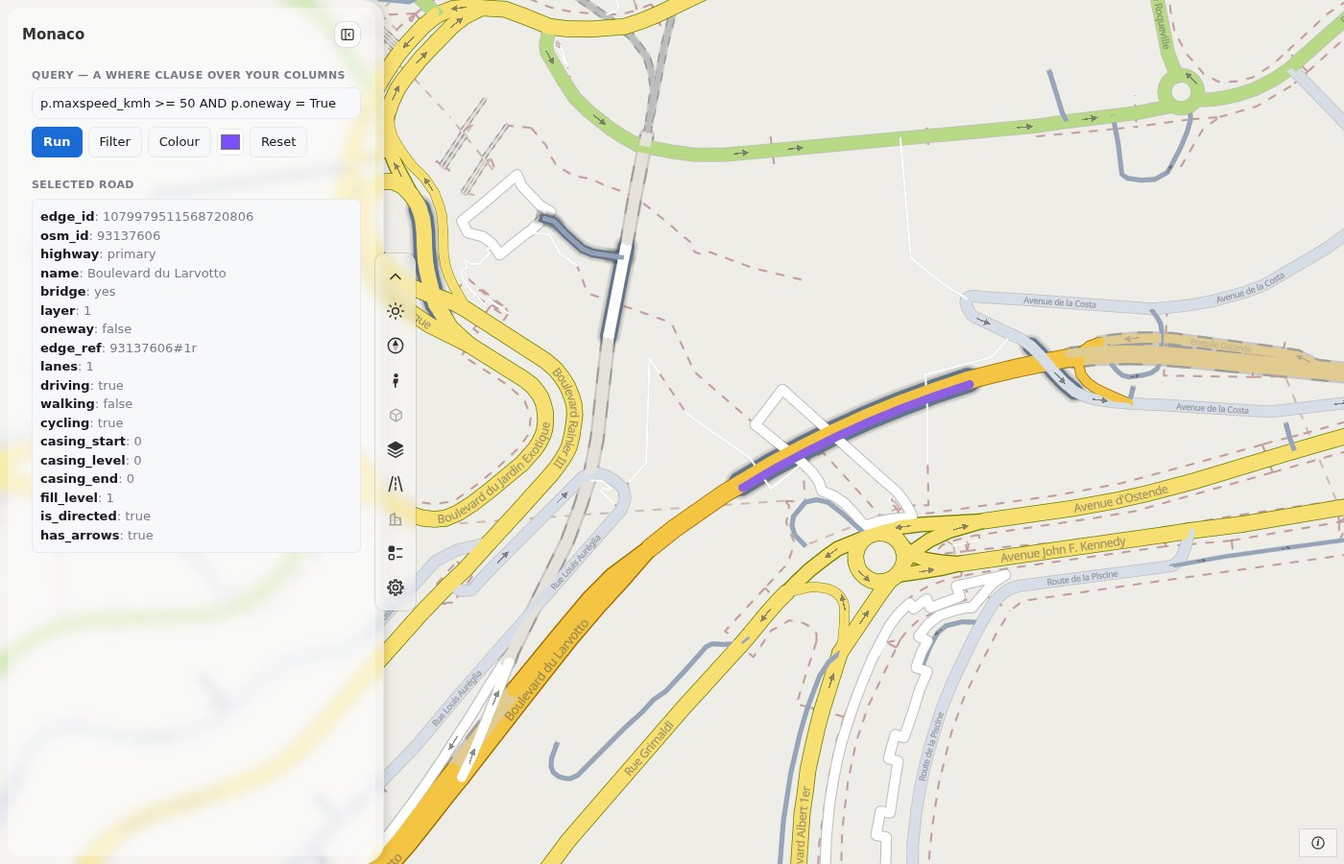
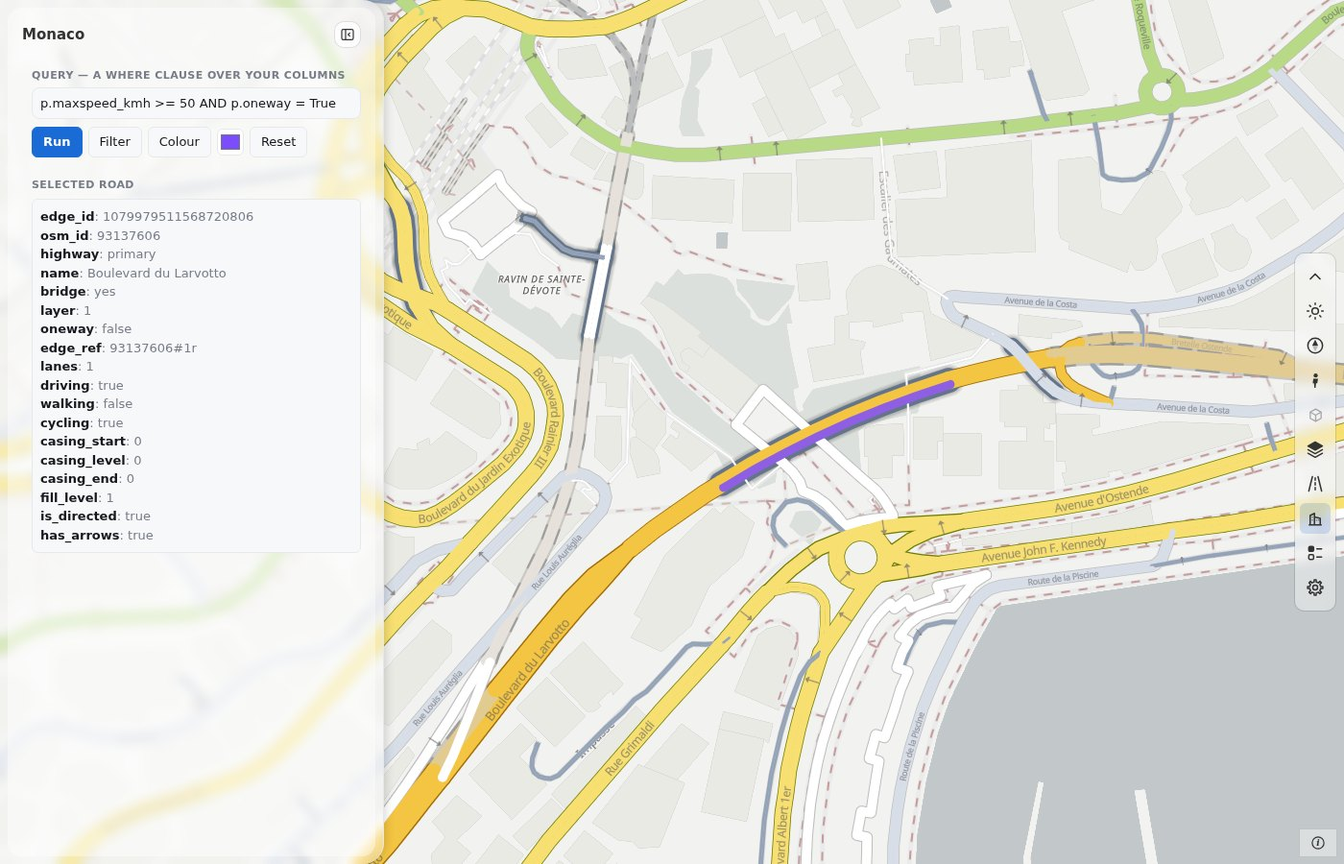
docs: new screenshots from the final build (toolbox at the right, OpenFreeMap Positron, the dark theme with Fiord, the phone with the one-row bar) at the top of the home page and the README and in the gallery; the dark theme, the seven base maps and the toolbox position in the guides and in What is 

diff --git a/docs/rust/architecture.md b/docs/rust/architecture.md
@@ -71,17 +71,17 @@ Each arrow points from a crate to the crate that uses it:
 flowchart TB
     roadstyle_assets["roadstyle-assets<br/>62 lines"]
     roadstyle_model["roadstyle-model<br/>2,181 lines"]
-    roadstyle_look["roadstyle-look<br/>3,225 lines"]
+    roadstyle_look["roadstyle-look<br/>3,276 lines"]
     roadstyle_io["roadstyle-io<br/>1,667 lines"]
     roadstyle_levels["roadstyle-levels<br/>2,851 lines"]
-    roadstyle_engine["roadstyle-engine<br/>7,771 lines"]
+    roadstyle_engine["roadstyle-engine<br/>8,039 lines"]
     roadstyle_tiles["roadstyle-tiles<br/>2,603 lines"]
-    roadstyle["roadstyle<br/>3,506 lines"]
+    roadstyle["roadstyle<br/>3,538 lines"]
     roadstyle_rs["roadstyle-rs<br/>232 lines"]
     roadstyle_wasm["roadstyle-wasm<br/>709 lines"]
     roadstyle_py["roadstyle-py<br/>683 lines"]
     roadstyle_cli["roadstyle-cli<br/>439 lines"]
-    roadstyle_mcp["roadstyle-mcp<br/>289 lines"]
+    roadstyle_mcp["roadstyle-mcp<br/>278 lines"]
     roadstyle_serve["roadstyle-serve<br/>291 lines"]
     roadstyle_snapshot["roadstyle-snapshot<br/>180 lines"]
     roadstyle_levels --> roadstyle_model
@@ -121,21 +121,21 @@ step) takes this crate alone.
 |---|---|---|---|
 | [`roadstyle-assets`](#roadstyle-assets) | roadstyle's files: the look's YAML and palettes, the base map's files, the dashboard's JS and CSS, the page templates and MapLibre, by name | 62 | (none) |
 | [`roadstyle-model`](#roadstyle-model) | roadstyle's road model: the roads as features with typed properties, and the geometry helpers | 2,181 | `roadstyle-levels`, arrow-array, arrow-schema, arrow-select, rstar, serde, serde_json |
-| [`roadstyle-look`](#roadstyle-look) | roadstyle's look: the typed, versioned config (palettes, profiles, settings, map options) that the engine draws a map with | 3,225 | `roadstyle-assets`, `roadstyle-model`, base64, crc32fast, flate2, indexmap, schemars, serde, serde_json, strsim, yaml-rust2 |
+| [`roadstyle-look`](#roadstyle-look) | roadstyle's look: the typed, versioned config (palettes, profiles, settings, map options) that the engine draws a map with | 3,276 | `roadstyle-assets`, `roadstyle-model`, base64, crc32fast, flate2, indexmap, schemars, serde, serde_json, strsim, yaml-rust2 |
 | [`roadstyle-io`](#roadstyle-io) | roadstyle's readers: the roads and other tables from GeoParquet, GeoJSON, Shapefile and (feature gpkg) GeoPackage | 1,667 | `roadstyle-levels`, `roadstyle-model`, arrow-array, arrow-schema, arrow-select, bytes, crs-definitions, i_overlay, parquet, proj4rs, proj4wkt, rstar, rusqlite, serde_json, shapefile |
 | [`roadstyle-levels`](#roadstyle-levels) | roadstyle's drawing levels: the tags rule and the solver (a leaf crate: the road flags are its own module) | 2,851 | rstar, sha2 |
-| [`roadstyle-engine`](#roadstyle-engine) | roadstyle's rendering engine: the style of a map, the data-driven paint, the legend data, the base-map layers | 7,771 | `roadstyle-levels`, `roadstyle-look`, `roadstyle-model`, foldhash, indexmap, rstar, serde_json |
+| [`roadstyle-engine`](#roadstyle-engine) | roadstyle's rendering engine: the style of a map, the data-driven paint, the legend data, the base-map layers | 8,039 | `roadstyle-levels`, `roadstyle-look`, `roadstyle-model`, base64, foldhash, indexmap, rstar, serde_json |
 | [`roadstyle-tiles`](#roadstyle-tiles) | roadstyle's vector tiles on request (the rules of tiles.py) | 2,603 | `roadstyle-model`, flate2, foldhash, indexmap, mlt-core, rstar, serde_json |
-| [`roadstyle`](#roadstyle) | roadstyle as a Rust library: the facade over the model, the readers, the levels, the engine and the tiles | 3,506 | `roadstyle-assets`, `roadstyle-engine`, `roadstyle-io`, `roadstyle-levels`, `roadstyle-look`, `roadstyle-model`, `roadstyle-tiles`, base64, flate2, serde, serde_json |
+| [`roadstyle`](#roadstyle) | roadstyle as a Rust library: the facade over the model, the readers, the levels, the engine and the tiles | 3,538 | `roadstyle-assets`, `roadstyle-engine`, `roadstyle-io`, `roadstyle-levels`, `roadstyle-look`, `roadstyle-model`, `roadstyle-tiles`, base64, flate2, serde, serde_json |
 | [`roadstyle-rs`](#roadstyle-rs) | The old name of the facade crate roadstyle, kept for one version | 232 | `roadstyle`, serde_json |
 | [`roadstyle-wasm`](#roadstyle-wasm) | The browser's front-end of roadstyle-rs: inlineStyle, Tiler, memoryBytes | 709 | `roadstyle`, serde_json, wasm-bindgen |
 | [`roadstyle-py`](#roadstyle-py) | The Python binding of roadstyle's Rust engine: the module roadstyle._rust (PyO3, abi3) | 683 | `roadstyle`, `roadstyle-serve`, arrow-array, pyo3, serde_json |
 | [`roadstyle-cli`](#roadstyle-cli) | The roadstyle program: one command for each job (serve: the level editor's files; snapshot: a PNG of a saved page) | 439 | `roadstyle`, `roadstyle-serve`, `roadstyle-snapshot`, serde_json |
-| [`roadstyle-mcp`](#roadstyle-mcp) | MCP server for roadstyle: AI agents draw styled, interactive road maps of road files | 289 | `roadstyle`, `roadstyle-snapshot`, base64, rmcp, schemars, serde, serde_json, tokio |
+| [`roadstyle-mcp`](#roadstyle-mcp) | MCP server for roadstyle: AI agents draw styled, interactive road maps of road files | 278 | `roadstyle`, `roadstyle-snapshot`, base64, rmcp, schemars, serde, serde_json, tokio |
 | [`roadstyle-serve`](#roadstyle-serve) | roadstyle serve: the level editor's page files and an area folder on 127.0.0.1 (the program and the Python binding call it) | 291 | `roadstyle-assets`, httparse |
 | [`roadstyle-snapshot`](#roadstyle-snapshot) | PNG pictures of saved roadstyle pages: Chromium over CDP draws the page, as roadstyle's Python snapshot does | 180 | anyhow, headless_chrome, serde_json |
 
-All crates: 26,689 lines of Rust in `rust/*/src/`.
+All crates: 27,029 lines of Rust in `rust/*/src/`.
 <!-- /gen:crates -->
 
 The crates read roadstyle's data (`src/roadstyle/data/`: the palettes, the profiles, the sprite) and the page files
@@ -187,11 +187,11 @@ Library, in `rust/roadstyle-model/`. Public API: `error`, `feature_table`, `flag
 
 #### `roadstyle-look` { #roadstyle-look }
 
-Library, in `rust/roadstyle-look/`. Public API: `basemap`, `color`, `options`, `sections`, `widths`, `VERSION`, `LookData`, `Look`, `RoadLook`, `SlotLook`, `DeckLook`, `Error`, `MapOptions`, `LookFile`, `Sections`, `Ramp`, `make_look`, `theme`, `Options`, `round_to`, `RoadModel`, `png_pixels`.
+Library, in `rust/roadstyle-look/`. Public API: `basemap`, `color`, `options`, `sections`, `widths`, `VERSION`, `LookData`, `Look`, `RoadLook`, `SlotLook`, `DeckLook`, `Error`, `MapOptions`, `LookFile`, `Sections`, `Ramp`, `make_look`, `theme`, `Options`, `round_to`, `RoadModel`, `png_pixels`, `png_rgba`.
 
 | Module | Lines | What it does | Python counterpart |
 |---|---|---|---|
-| `lib` | 323 | roadstyle's look: the one typed, versioned value that the engine draws a map with | `_settings.py` |
+| `lib` | 325 | roadstyle's look: the one typed, versioned value that the engine draws a map with | `_settings.py` |
 | `basemap` | 393 | The base map's half of the look (mapstyle's styles, merged into roadstyle on 2026-10-23): a duckOSM map's travel mode, its theme and its path style give the roads' palette and settings (mapstyle's `mode_settings`) and the base map's part of the look (`features`: the layers of layers.yaml, the 3D heights, the base map's style in the theme's colours and its images) |  |
 | `color` | 129 | The look's colours (review D4): one reader for every colour of the look, and the mixes |  |
 | `error` | 38 | The errors of the look: one kind for each cause, each with the text that the bindings show (the same text as before the type) |  |
@@ -206,7 +206,7 @@ Library, in `rust/roadstyle-look/`. Public API: `basemap`, `color`, `options`, `
 | `png` | 96 | The PNG images of the look: a texture's mask (8-bit grey) read, and a texture in its colour (8-bit RGBA) written |  |
 | `ramp` | 118 | The colour ramps of data colours (render_edges' cmap): branca's LinearColormap ColorRamp makes it |  |
 | `resolve` | 522 | The resolution of the look (look.json): what roadstyle renders a map with, made from render_edges' palette, profile and settings, as The look as the engine reads it: the settings (theme, style, roads: the profile and the palette merged, the palettes of all classes, the settings in the older layout), of config.StyleConfig, of palettes.RoadStyle.from_dict with style._apply, and of the parts geolibre-roadstyle's look_of adds (the class styles, the slots' tables, the arrow image, the popup) |  |
-| `sections` | 563 | The typed look: one struct for each section of the resolved look, in place of the JSON values `theme` and `config` (StyleConfig's flat view, most of whose keys were a copy of a theme section) and of the resolution's tables (`styles`, `slots`, `roads_model`, the arrow image, the road popup, the base map's part) |  |
+| `sections` | 612 | The typed look: one struct for each section of the resolved look, in place of the JSON values `theme` and `config` (StyleConfig's flat view, most of whose keys were a copy of a theme section) and of the resolution's tables (`styles`, `slots`, `roads_model`, the arrow image, the road popup, the base map's part) |  |
 | `widths` | 174 | The road width model: the width of each class by zoom, its draw order and its two-way split |  |
 
 #### `roadstyle-io` { #roadstyle-io }
@@ -243,13 +243,14 @@ Library, in `rust/roadstyle-levels/`. Public API: `area`, `flags`, `flow`, `solv
 
 #### `roadstyle-engine` { #roadstyle-engine }
 
-Library, in `rust/roadstyle-engine/`. Public API: `colors`, `contract`, `decks`, `draw`, `error`, `export_look`, `features`, `layers`, `overlays`, `palettes`, `planner`, `road`, `roads`, `simple`, `slots`, `sources`, `MAX_ROADS`, `Src`, `Parts`, `make_parts`, `restyle`, `restyle_same_fills`, `inline_style`, `level_edges`, `feature_table`, `geom`, `mark`, `props`, `table`, `Cell`, `RoadTable`, `Role`, `Roles`, `Row`, `FeatureTable`, `Error`, `Limit`, `Unsupported`, `Road`, `Roads`, `look`, `Look`.
+Library, in `rust/roadstyle-engine/`. Public API: `colors`, `dark`, `contract`, `decks`, `draw`, `error`, `export_look`, `features`, `layers`, `overlays`, `palettes`, `planner`, `road`, `roads`, `simple`, `slots`, `sources`, `MAX_ROADS`, `Src`, `Parts`, `make_parts`, `restyle`, `restyle_same_fills`, `inline_style`, `level_edges`, `feature_table`, `geom`, `mark`, `props`, `table`, `Cell`, `RoadTable`, `Role`, `Roles`, `Row`, `FeatureTable`, `Error`, `Limit`, `Unsupported`, `Road`, `Roads`, `look`, `Look`.
 
 | Module | Lines | What it does | Python counterpart |
 |---|---|---|---|
-| `lib` | 268 | roadstyle's rendering engine: the style of a map from the roads, the look, the data-driven paint, the legend data and the base-map layers |  |
+| `lib` | 269 | roadstyle's rendering engine: the style of a map from the roads, the look, the data-driven paint, the legend data and the base-map layers |  |
 | `colors` | 428 | Data-driven colour and width: render_edges' color_by, colors, cmap, vmin, vmax, width_by, color_table, color_key, color_options, color_active and legend, read from look["args"] |  |
 | `contract` | 174 | The output side of the interaction contract: what a page's dashboard reads from a style made with `state: "live"` |  |
+| `dark` | 259 | The dark theme of a live style |  |
 | `decks` | 323 | the bridges as ramped deck ribbons for the 3D view (the fill-extrusion source `decks`) |  |
 | `draw` | 317 | The drawing values of each road: what the stages of bake as `__rs_*` properties, as typed fields |  |
 | `error` | 139 | The errors of the engine: one kind for each cause, with the text that the bindings show |  |
@@ -280,7 +281,7 @@ Library, in `rust/roadstyle-engine/`. Public API: `colors`, `contract`, `decks`,
 | `slots::mod` | 149 | The "slots" source: the names and the one-way arrows, from the roads after their stages (roads::mark_roads) |  |
 | `slots::place` | 208 | The slots of one group: where its chains are free of crossing roads, how they divide into slots, and each slot's feature |  |
 | `sources` | 310 | Stage 1: the roads and the look give the style and its sources, typed in memory: the drawing sources (the roads' lines with their drawing values, the pieces, the names and arrows, the 3D decks, the base map, ...) and the road table (every field of each road, by its row) |  |
-| `style` | 218 | The parts of a style from roads that are prepared (the roles, the levels): `make_parts`'s second half |  |
+| `style` | 226 | The parts of a style from roads that are prepared (the roles, the levels): `make_parts`'s second half |  |
 
 #### `roadstyle-tiles` { #roadstyle-tiles }
 
@@ -316,7 +317,7 @@ Library, in `rust/roadstyle/`. Public API: `error`, `dashboard`, `level_area`, `
 | `level_editor` | 680 | The level editor in a page: an area folder's roads (roads.parquet, one row for each road with its edges both ways) and pairs, the solver of roadstyle-levels' `area`, and what the page draws and shows |  |
 | `options` | 52 | The keywords of a call (render_edges' flat keywords) that no part of roadstyle reads: not a map option (roadstyle_look::options), not a page key (page_options) and not a key of the style writer or of stage 2 |  |
 | `page` | 267 | The page writer: the HTML page of a live style (state "live") and the options of its dashboard |  |
-| `page_options` | 693 | Stage 3 of a page in one call (audit R3): `page_from` makes the page of a look's roads, as render_edges(backend="web") with the Rust engine (`_engine.render_page`) | `_engine.py`, `basemaps.py` |
+| `page_options` | 725 | Stage 3 of a page in one call (audit R3): `page_from` makes the page of a look's roads, as render_edges(backend="web") with the Rust engine (`_engine.render_page`) | `_engine.py`, `basemaps.py` |
 | `relevel` | 222 | The level editor's redraw: a tiled map whose roads get new levels, heads and caps |  |
 
 #### `roadstyle-rs` { #roadstyle-rs }
@@ -361,7 +362,7 @@ Library and program, in `rust/roadstyle-mcp/`. Public API: (none).
 
 | Module | Lines | What it does | Python counterpart |
 |---|---|---|---|
-| `main` | 289 | `roadstyle-mcp`: roadstyle as tools for AI agents, an MCP server over stdio on the rmcp SDK |  |
+| `main` | 278 | `roadstyle-mcp`: roadstyle as tools for AI agents, an MCP server over stdio on the rmcp SDK |  |
 
 #### `roadstyle-serve` { #roadstyle-serve }
 
@@ -545,13 +546,13 @@ saved page still works offline.*
 |---|---|---|---|
 | `api.js` | 170 | the runtime API of the interaction contract: one object for a host page, over the window.rs* functions of the controls |  |
 | `arrows.js` | 164 | oneway direction-arrow icon (openstreetmap-carto) |  |
-| `basemap.js` | 153 | base-layer switching: window.rsSetBasemap(key|index) is the API (swaps the raster source's tiles; the road layers stay put); the dropdown is just UI over it and stays in sync | `RS_BASEMAPS`, `rsBuildings`, `rsSetBasemap` |
-| `basemapbox.js` | 93 | The base-map box: the heading "Base map", one radio row with a swatch for each map, a divider, and "On top": Hillshade, Labels and 3D buildings | `rsLabelsOn` |
+| `basemap.js` | 144 | base-layer switching: window.rsSetBasemap(key|index) is the API (swaps the raster source's tiles; the road layers stay put); the dropdown is just UI over it and stays in sync | `RS_BASEMAPS`, `rsBuildings`, `rsSetBasemap` |
+| `basemapbox.js` | 95 | The base-map box: the heading "Base map", one radio row with a swatch for each map, a divider, and "On top": Hillshade, Labels and 3D buildings | `rsLabelsOn` |
 | `boundary.js` | 62 | The area boundary: what the dashboard does with the map option `boundary` |  |
 | `breaks.js` | 38 | NATURAL BREAKS for live data (Fisher-Jenks): the cut points that split numbers into k sets so that the numbers inside a set are as close as possible (the least sum of squares) |  |
 | `color.js` | 114 | "colour by" recolouring: each option's fill is baked per edge (__rs_fill / __rs_fill__1 …), and the road layers' expressions (made in Python, render_web._fill_expr) pick the active option from the state rs_co | `RS_COLOR_OPTIONS`, `rsColor`, `rsColorBase`, `rsSetColorField`, `rsSetRoadFill` |
 | `colorbox.js` | 79 | The tool `legend`: "Colour by" and the legend in one box of the bar |  |
-| `core.js` | 217 | roadstyle's map dashboard: the state that every control reads, the road data, and the id-set queries | `rsFocus`, `rsGetProps`, `rsHighlight`, `rsQuery` |
+| `core.js` | 221 | roadstyle's map dashboard: the state that every control reads, the road data, and the id-set queries | `rsFocus`, `rsGetProps`, `rsHighlight`, `rsQuery` |
 | `features.js` | 77 | The base map's layers: the 3D buildings and each layer's clicks, tooltip and popup | `rsGetBuildings3D`, `rsGetInteraction`, `rsSetBuildings3D`, `rsSetInteraction` |
 | `filter.js` | 149 | road-class filtering: window.rsSetClasses([...]) shows exactly those classes and hides the rest across every road layer; the collapsible checkbox panel is just UI over it | `RS_ACCESS`, `RS_CLASSES`, `RS_CLASS_COL`, `RS_CLASS_COLORS`, `RS_KINDS`, `RS_MODES`, `rsFilter`, `rsGetAccess`, `rsGetKinds`, `rsGetModes`, `rsSetAccess`, `rsSetBridges`, `rsSetClasses`, `rsSetKinds`, `rsSetModes`, `rsSetTunnels` |
 | `find.js` | 55 | FIND: substring over the curated popup fields (or every public prop) — matched against each field's VALUE, or its column NAME when the field is set, so "bridge" finds bridge=yes roads (no value literally contains "bridge"), likewise tunnel/oneway | `rsFind` |
@@ -574,13 +575,13 @@ saved page still works offline.*
 | `sections.js` | 67 | The panel's sections: the page adds a block to the panel, hides one of the panel's own, or moves one, with `rs.sections` or with the typed option `dashboard.panel.sections` / `hide`, and no longer edits the template's HTML as text |  |
 | `select.js` | 178 | hover + click-to-select + info popup (feature-state, tolerance box, throttled to one query/frame) | `rsDeselect`, `rsSelect` |
 | `selectbox.js` | 73 | A select list in the look of the boxes |  |
-| `settings.js` | 88 | The tool `settings`: the person's own choices, kept in this browser only (localStorage, never in the page file): where the bar and the panel are, how transparent the layers are, and the keys of Google and CARTO | `rsOpenSettings` |
+| `settings.js` | 86 | The tool `settings`: the person's own choices, kept in this browser only (localStorage, never in the page file): where the bar and the panel are, how transparent the layers are, and the key of Google | `rsOpenSettings` |
 | `streetview.js` | 118 | Street View window (street_view="window"): hidden until the map button (or rsSetStreetView(true)) opens it; then a draggable, resizable window over the map that follows every road selection | `rsSetStreetView` |
 | `svg.js` | 14 | The SVG helper of a page's charts: `rs.svg(parent, tag, attrs, text?)` makes one SVG element, sets its attributes and appends it |  |
 | `svspot.js` | 189 | GOOGLE STREET VIEW of the clicked edge (the window, the side-by-side page, or a plain link), looking the way the edge runs | `rsGetStreetViewSpot`, `rsSetStreetViewMarker`, `rsSetStreetViewMarkerAt`, `rsStreetViewStep` |
 | `tabs.js` | 32 | Tabs and the two-way switch of a page |  |
 | `template.js` | 53 | The dashboard template's phone form: the class `rs-phone` on <html> at the phone width or less (the first paint sets it; this keeps it current), and the bottom sheet of a sidebar (three heights: closed, 40 %, full) |  |
-| `theme.js` | 36 | The page's theme: <html data-rs-theme="light|dark">, which the popup, the tooltip and (later) the bar read (popup.css, dashboard.css) | `rsSetTheme` |
+| `theme.js` | 45 | The page's theme: <html data-rs-theme="light|dark">, which the popup, the tooltip and (later) the bar read (popup.css, dashboard.css) | `rsSetTheme` |
 | `tip.js` | 49 | The explanation of a button: the browser draws a `title` itself, in the system's style, so the page takes the `title` of a button of the bar, the boxes, the panels and the windows when the pointer comes (or the key focus), keeps its text in `data-rs-tip` and shows it in a box of the page's look |  |
 | `toolbar.js` | 177 | The bar: the tools of the registry on one bar at an edge of the window, in the look of the theme |  |
 | `tools.js` | 143 | The tool registry |  |
@@ -687,7 +688,7 @@ an item shows "yes" when the code has it:
 | The core has no I/O: the engine does not depend on a reader | `roadstyle-engine` depends on: `roadstyle-levels`, `roadstyle-look`, `roadstyle-model` | yes |
 | A crate `roadstyle-look` for the typed, versioned look | `roadstyle-look` exists | yes |
 | One error enum for each crate | `Result<_, String>`: 10 places; error enums: Error, SnapshotError | no |
-| A typed render model in place of JSON trees | `Value` (serde_json) in `roadstyle-engine`: 696 times | no |
+| A typed render model in place of JSON trees | `Value` (serde_json) in `roadstyle-engine`: 721 times | no |
 | Typed fields in place of the `__rs_*` properties | 59 distinct `__rs_*` names in `rust/` | no |
 | Stage 2 (the tiles) has its own public call in Python and in the browser | `roadstyle-py`: none; `roadstyle-wasm`: none | no |
 | One road table for the fields, in GeoJSON and in tiles alike | a call for the road table: `roadstyle-py`: none; `roadstyle-wasm`: `roadTable`. Today GeoJSON has the fields in its source `roads`, the tiled page in the side table | no |

diff --git a/README.md b/README.md
@@ -26,6 +26,11 @@
   <a href="https://khoshkhah.github.io/roadstyle/">Documentation</a>
 </p>
 
+<p align="center">
+  <img src="https://raw.githubusercontent.com/Khoshkhah/roadstyle/main/docs/img/gallery/dashboard.jpg" alt="The standard dashboard on a desktop: Monaco on the OpenFreeMap Positron base map, a road selected in the panel at the left, and the toolbox at the right edge" width="68%">
+  <img src="https://raw.githubusercontent.com/Khoshkhah/roadstyle/main/docs/img/gallery/dashboard_phone.jpg" alt="The dashboard on a phone: the one-row bar at the top, the map, and the panel as a bottom sheet" width="22%">
+</p>
+
 ![A roadstyle map of Monaco in 3D: bridges, tunnels and roundabouts drawn in order, Rue de la Colle selected, and the floating Street View window showing it](https://raw.githubusercontent.com/Khoshkhah/roadstyle/main/docs/img/hero.jpg)
 
 ## Why roadstyle
@@ -45,7 +50,9 @@
 
 - **A standard dashboard and toolbox.** `rs.render_dashboard(edges)` makes a map with one panel and one bar of tools: navigate (zoom, turn and
   tilt in one box), road filter, base maps, colour and legend, settings and credits. A tool that the page cannot use is grey, and its tooltip says
-  why. On a phone the bar is one row that you move sideways, and the panel is a bottom sheet.
+  why. The toolbox is at the right edge and the panel at the left. On a phone the bar is one row that you move sideways, and the panel is a bottom sheet.
+- **Seven base maps, no key.** OpenFreeMap Liberty and Positron (the default), OpenStreetMap, Esri Gray, Esri Streets, Esri Satellite and Blank, each with its dark twin
+  when it has one. The CARTO maps are gone, so no base map needs a key. The theme switch also turns the style's own layers dark.
 - **Tiles by default, one rule.** Every page keeps its roads as MLT vector tiles to zoom 16, with one road layer for every zoom. The page, the
   browser worker, `export_style` and `roadstyle tiles` all use the same tiling rule. `tiles=False` gives GeoJSON roads, and `tile_format="mvt"` gives MVT.
 - **The level editor is in the panel.** `roadstyle levels edit AREA_DIR` opens it from the Rust program. It uses the page's standard panel, with an apply bar, red and blue picks, the area boundary (`levels make --boundary`) and `edits.csv` in the History tab.
@@ -53,8 +60,7 @@
   `rs.classify` makes colour classes for roads.
 
 <p align="center">
-  <img src="https://raw.githubusercontent.com/Khoshkhah/roadstyle/main/docs/img/dashboard-desktop.png" alt="The dashboard on a desktop: Monaco, the panel at the left and the toolbox next to it" width="62%">
-  <img src="https://raw.githubusercontent.com/Khoshkhah/roadstyle/main/docs/img/dashboard-phone.png" alt="The dashboard on a phone: the bar at the top and the panel as a bottom sheet" width="22%">
+  <img src="https://raw.githubusercontent.com/Khoshkhah/roadstyle/main/docs/img/gallery/dashboard_dark.jpg" alt="The dashboard in the dark theme with the OpenFreeMap Fiord base map: Monaco, one road selected" width="80%">
 </p>
 
 More: [What is new in 0.26.0](https://khoshkhah.github.io/roadstyle/#what-is-new-in-0260) ·

diff --git a/docs/index.md b/docs/index.md
@@ -2,6 +2,11 @@
 
 <p class="lead">Turn a road network into a styled, interactive HTML map that works offline, with Google Street View and a JavaScript API.</p>
 
+<div style="display:flex;gap:12px;align-items:flex-start;justify-content:center;margin:1rem 0">
+<img src="img/gallery/dashboard.jpg" alt="The standard dashboard on a desktop: Monaco on the OpenFreeMap Positron base map, a road selected in the panel at the left, and the toolbox at the right edge" style="width:70%;min-width:0">
+<img src="img/gallery/dashboard_phone.jpg" alt="The dashboard on a phone: the one-row bar at the top, the map, and the panel as a bottom sheet" style="width:23%;min-width:0">
+</div>
+
 <div class="rs-hero" markdown>
 ![A roadstyle map of Monaco in 3D: bridges, tunnels and roundabouts drawn in order, Rue de la Colle selected, and the floating Street View window showing it](img/hero.jpg)
 </div>
@@ -88,6 +93,13 @@ rs.render_edges(edges).save("roads.html")  # one self-contained file, opens offl
   (zoom, turn and tilt, with Ctrl + drag), the `roads` filter, one base-map tool, the legend, the settings and the credits.
   A tool that the page cannot use is greyed out, with a reason. On a phone the bar folds and the panel is a bottom sheet.
   [Dashboard layout](guides/dashboard-layout.md) · [Add to the panel](guides/dashboard-panel.md)
+- **Seven base maps, no key.** OpenFreeMap Liberty and Positron, OpenStreetMap, Esri Gray, Esri Streets, Esri Satellite and Blank, each with its dark twin when it has
+  one. The CARTO maps and OpenFreeMap Bright are gone, and a page that asks for one gets `ofm_positron` and a warning. The default base map of `render_edges` is `ofm_positron`.
+  [Style the roads](guides/style.md#base-maps)
+- **A dark theme for the style's own layers.** The theme switch turns the land, water, buildings and the casing of the roads dark with no new style and no new tile.
+  [Dashboard layout](guides/dashboard-layout.md#the-dark-theme)
+- **The toolbox is at the right edge** on a desktop, and the panel at the left. On a phone the bar is one row at the top that you move sideways, a fold button hides it,
+  there is no hover tooltip on a touch screen, and the Google 3D window has a one-row header.
 - **One zoom table.** The dashboard shows service roads and living streets from zoom 14, and steps, platforms, corridors, roads and
   private roads from zoom 15. `minzoom=False` shows all. [Dashboard layout](guides/dashboard-layout.md#roads-at-small-zooms)
 - **Tiles are the default.** Every page embeds its roads as MLT tiles to zoom 16, with one road layer for every zoom. `tiles=False`

diff --git a/docs/guides/dashboard-layout.md b/docs/guides/dashboard-layout.md
@@ -8,7 +8,7 @@ import roadstyle as rs
 rs.render_dashboard(edges, color_options={"Road class": {}}).save("dashboard.html")
 ```
 
-![The dashboard on a desktop: the panel at the left, the toolbox next to it, and the roads of Monaco](../img/dashboard-desktop.png)
+![The dashboard on a desktop: the panel at the left, the toolbox at the right edge, and the roads of Monaco](../img/dashboard-desktop.png)
 
 ## The form
 
@@ -81,6 +81,8 @@ swatch has a thin border, so that a white colour shows.
 The 3D buildings switch tilts a flat map to 55° and zooms in to 15 when the zoom is under 14.5, because the buildings start at that
 zoom. When you switch it off, the map goes flat again if this switch tilted it. A call of `rsBuildings(on)` from a script moves nothing.
 
+![The base-map box: seven base maps, and Hillshade, Labels and 3D buildings under On top](../img/dashboard-basemap-box.png)
+
 ### Colour and legend
 
 The box has the *Colour by* list and the legend of the active colour option. Your own rows follow the legend
@@ -115,6 +117,15 @@ OpenStreetMap") in place of your page's credit. The base map's credits follow. T
 ![The colour and legend box: the colour options and the legend of the road classes](../img/dashboard-legend-box.png)
 
 </div>
+
+## The dark theme
+
+The theme button sets the light or the dark theme for the whole page: the bar, the panel, the boxes, the popup and the roads. A dark base map (OpenFreeMap Fiord or Dark, Esri
+Dark Gray, Blank dark) sets the dark theme too. The style's own layers (land, parks, water, buildings, paved areas, lines and points of a duckOSM map, the casing of the roads, the names and the arrows) have a dark
+colour in the style, and the global state `rs_theme` picks it. A change of theme needs no new style and no new tile. The dark colour is the light one turned by the `dark` block of the profile.
+The fill of a road keeps its colour. Design: `docs/design/dark_theme.md`.
+
+![The dashboard in the dark theme on the OpenFreeMap Fiord base map](../img/gallery/dashboard_dark.jpg)
 
 ## Add a tool
 

diff --git a/docs/gallery.md b/docs/gallery.md
@@ -92,13 +92,22 @@ More in [Google 3D](guides/google-3d.md).
 
 ## Ready-made pages
 
-A dashboard with a query panel and a toolbox (navigate, base map, roads, colour and legend, settings), in one call.
+The standard dashboard: a query panel at the left and a toolbox at the right edge (navigate, base map, roads, colour and legend, settings), in one call.
+The map starts on the base map that you ask for. The pictures below use OpenFreeMap Positron and OpenFreeMap Fiord (the dark theme).
 
 ```python
-rs.render_dashboard(edges, color_options={"Class": {}, "Speed": {"color_by": "maxspeed_kmh"}})
+rs.render_dashboard(edges, basemap="ofm_positron", color_options={"Class": {}, "Speed": {"color_by": "maxspeed_kmh"}})
 ```
 
-![The dashboard page: Monaco's roads, the panel at the left with the selected road, and the toolbox next to it](img/gallery/dashboard.jpg)
+![The dashboard on a desktop: Monaco, a road selected in the panel at the left, and the toolbox at the right edge](img/gallery/dashboard.jpg)
+
+![The dashboard in the dark theme on the OpenFreeMap Fiord base map](img/gallery/dashboard_dark.jpg)
+
+<div style="max-width:300px" markdown>
+
+![The dashboard on a phone: the one-row bar at the top, the map, and the panel as a bottom sheet](img/gallery/dashboard_phone.jpg)
+
+</div>
 
 More in [Dashboards & JavaScript](guides/dashboards.md).
 

diff --git a/docs/guides/dashboards.md b/docs/guides/dashboards.md
@@ -33,13 +33,13 @@ Each takes every `render_edges` keyword and returns the same map object (`.save(
 
 <div class="grid" markdown>
 
-![The dashboard on a desktop: the panel at the left with the selected road, the toolbox next to it, and Monaco's roads](../img/dashboard-desktop.png)
+![The dashboard on a desktop: the panel at the left with the selected road, the toolbox at the right edge, and Monaco's roads](../img/dashboard-desktop.png)
 
 ![The dashboard on a phone: the bar at the top and the panel as a bottom sheet](../img/dashboard-phone.png){ width="260" }
 
 </div>
 
-The pictures show Monaco, made with `rs.render_dashboard(edges, name="Monaco")` at 1400 by 900 and at 390 by 844.
+The pictures show Monaco, made with `rs.render_dashboard(edges, name="Monaco", basemap="ofm_positron")` at 1400 by 900 and at 390 by 844.
 
 ## The standard dashboard
 
